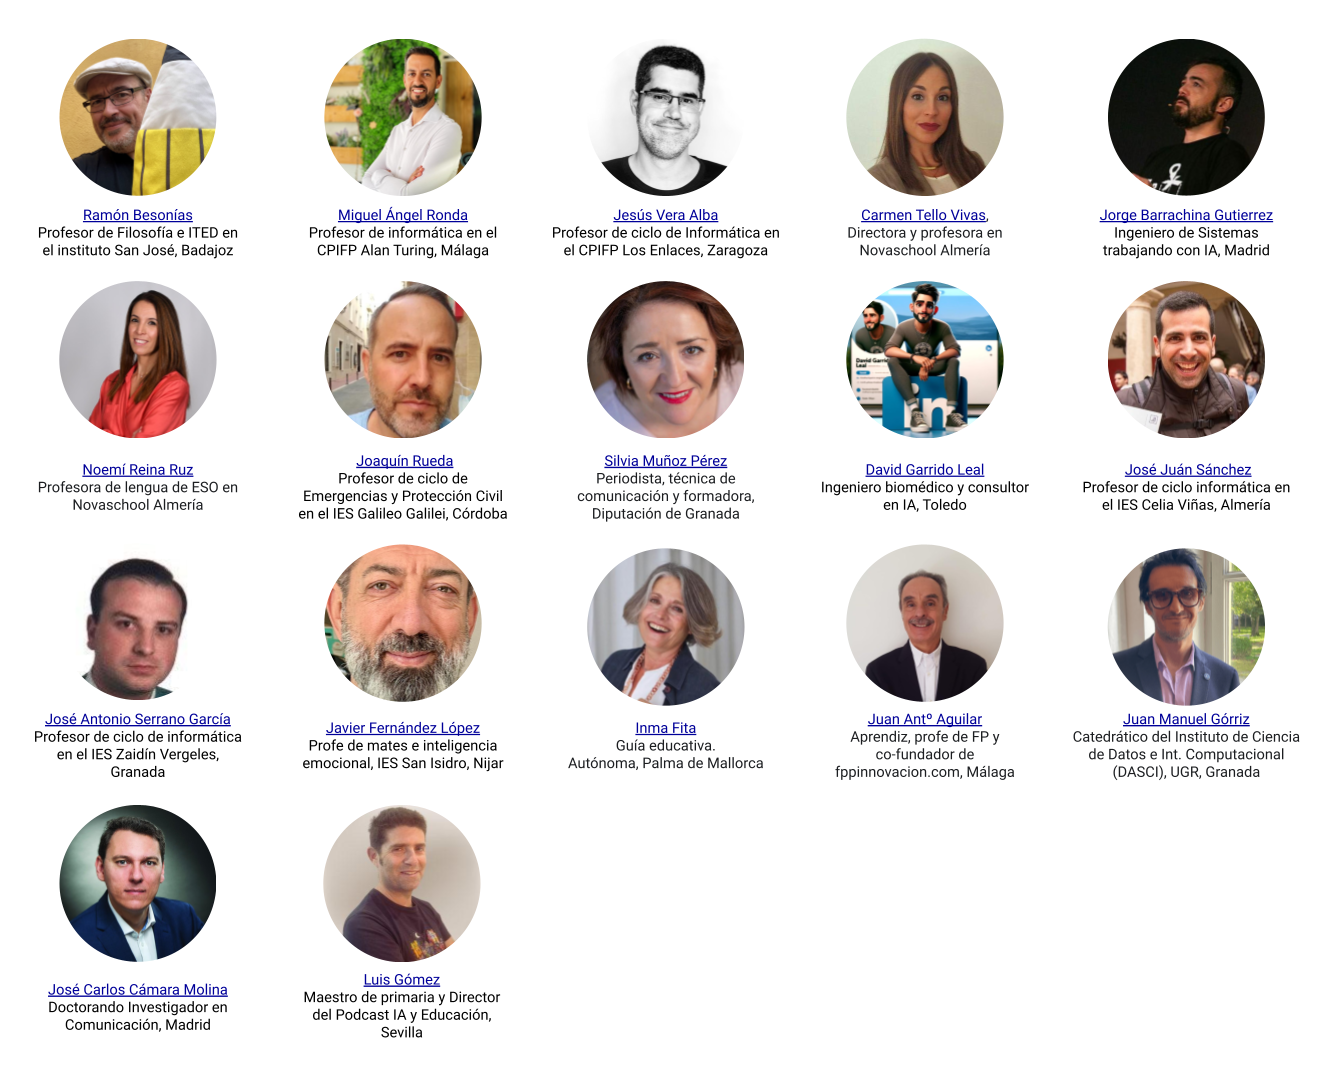
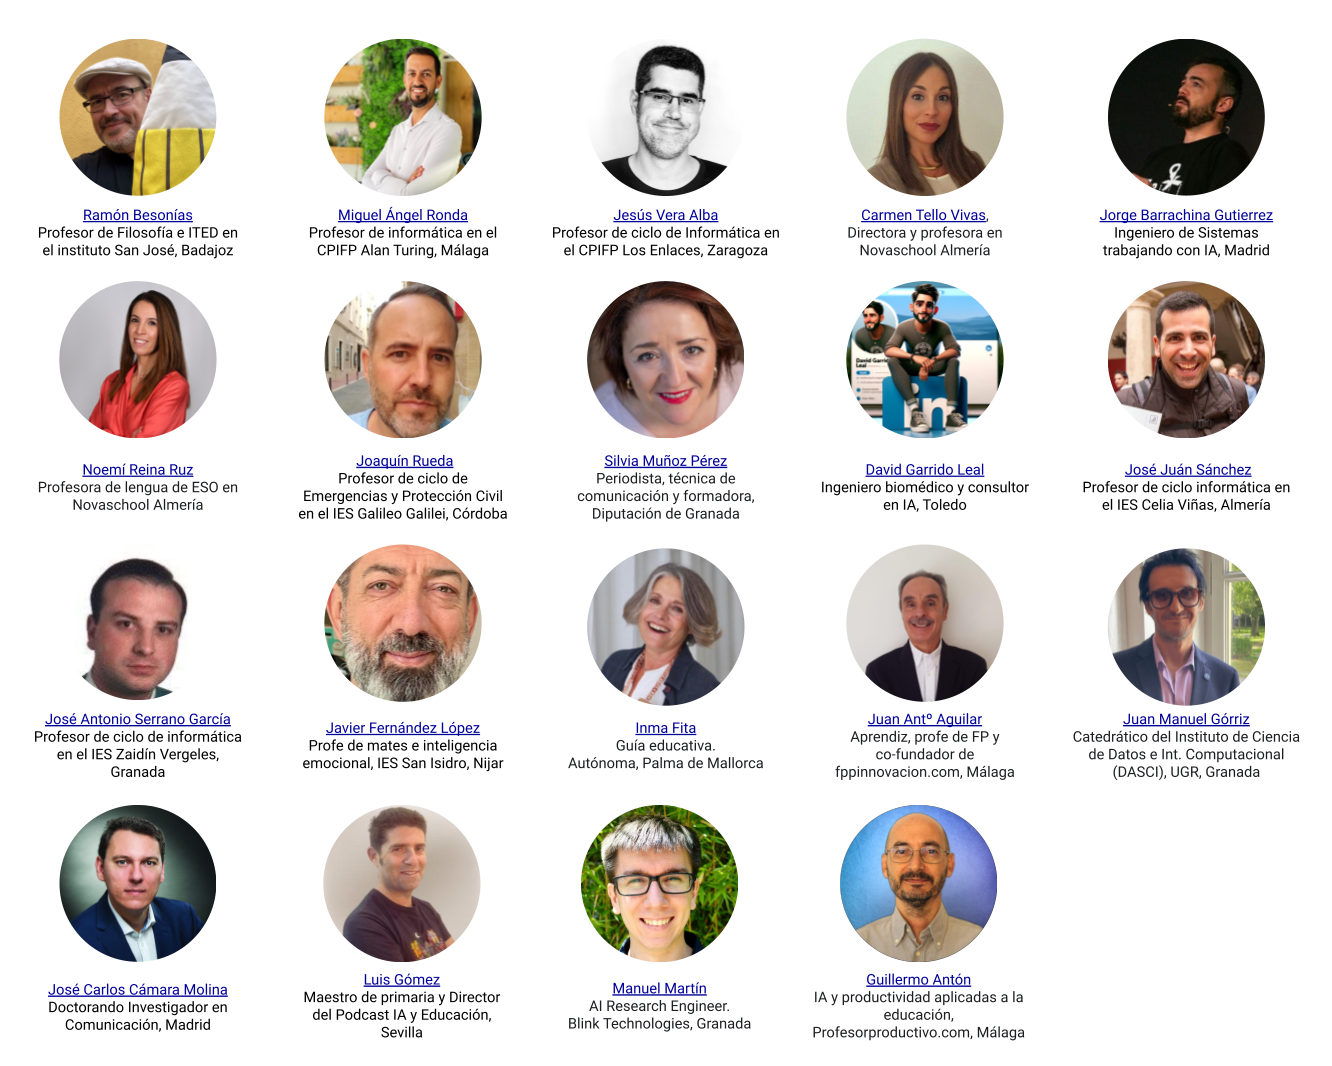
Updating agradecimientos

Changed region(s): [[0.6156, 0.743, 0.7695, 0.9906], [0.4309, 0.743, 0.5541, 0.9906]]

diff --git a/i18n/es/docusaurus-plugin-content-docs/current/artificial-intelligence/education-ai.md b/i18n/es/docusaurus-plugin-content-docs/current/artificial-intelligence/education-ai.md
@@ -416,7 +416,9 @@ Ejemplo:
 
 > Quiero que actúes como un profesor de ciencia naturales de Andalucía, España. Y quiero que me ayudes a crear un plan de estudios para un alumno de primero de la Educación Secundaria Obligatoria (ESO). Usa un tono objetivo... por terminar
 
+
 <!--
+Plantilllas (spreadsheets: https://profesorproductivo.com/material-descargable/plantillas-chatgpt/
 
 Herramientas: 
 - ChatGPT prompt generator: https://writingmate.ai/free-tools/chatgpt-prompt-generator
@@ -812,15 +814,15 @@ Dicho esto, aclarar que los posibles errores en la documentación son en cualqui
 <!-- 
 
 Y a las personas que habéis aceptado la invitación, pero que aún no hemos hablado:
-* 📅 [José Carlos Cámara Molina](https://www.linkedin.com/in/jccamara/)
+Mariana Ferrarelli
+
 * 📅 [Guillermo Antón Pardo](https://www.linkedin.com/in/guillermoantonpardo), profesor de Biología y geología (https://profesorproductivo.com/)
-* 📅 [Luis Gómez (Podcast IA y educación)](https://linktr.ee/podcastiayeducacion), Maestro de primaria, colegio Julio Coloma, Sevilla
 * ⏳ Jaime Jaenada Solera, IES San Isidro, Nijar
   * ⏳ Compi de Química, IES San Isidro, Nijar
-* ⏳ [Juan Manuel Górriz Sáez](https://www.linkedin.com/in/juan-manuel-g%C3%B3rriz-s%C3%A1ez-64137497/), Catedrático del Instituto de Ciencia de Datos e Inteligencia Computacional (DASCI) de la Universidad de Granada, y profesor visitante de la Universidad de Cambridge (Reino Unido)
+* ⏳ [Antonio Codina](https://www.linkedin.com/in/antonio-codina-s%C3%A1nchez-0a3782347/), profesor matemáticas, Universidad de Almería 
 * ⏳ [Francisco Barrionuevo](https://www.linkedin.com/in/pacobarrionuevo/), profesor de Economía, Novaschool Añoreta, Málaga
-* ⏳ Cristina, profe Educación física en Murcia 
-* ⏳ [Antonio Codina](https://www.linkedin.com/in/antonio-codina-s%C3%A1nchez-0a3782347/), profesor matemáticas, Universidad de Almería -->
+
+-->
 
 
 

diff --git a/i18n/es/docusaurus-plugin-content-docs/current/artificial-intelligence/ai-tools.md b/i18n/es/docusaurus-plugin-content-docs/current/artificial-intelligence/ai-tools.md
@@ -74,3 +74,8 @@ Recopilaciones:
 
 
 <!-- Vídeo: https://profesorproductivo.com/blog/podcast-las-mejores-herramientas-de-ia-para-creacion-de-videos/ -->
+
+<!-- 
+https://aithor.com/es-es
+https://www.schoolgoat.com/ -> https://www.instagram.com/reel/DFnEQjIoBmu/?igsh=ZHZ2aXl5YWdncGJ1
+ -->
